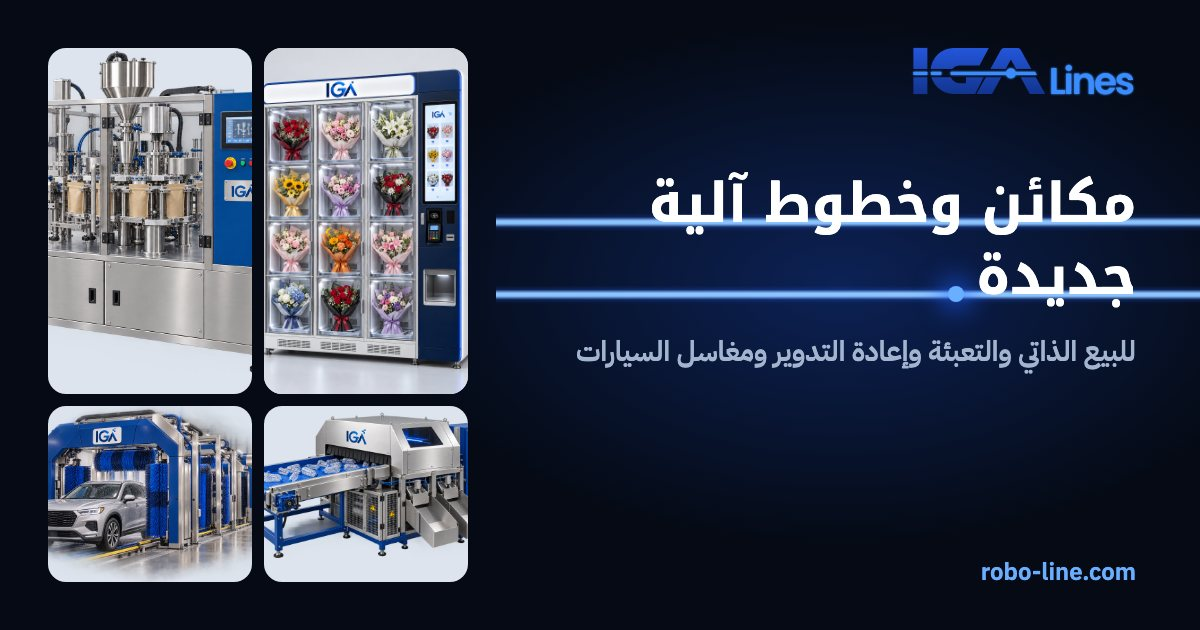
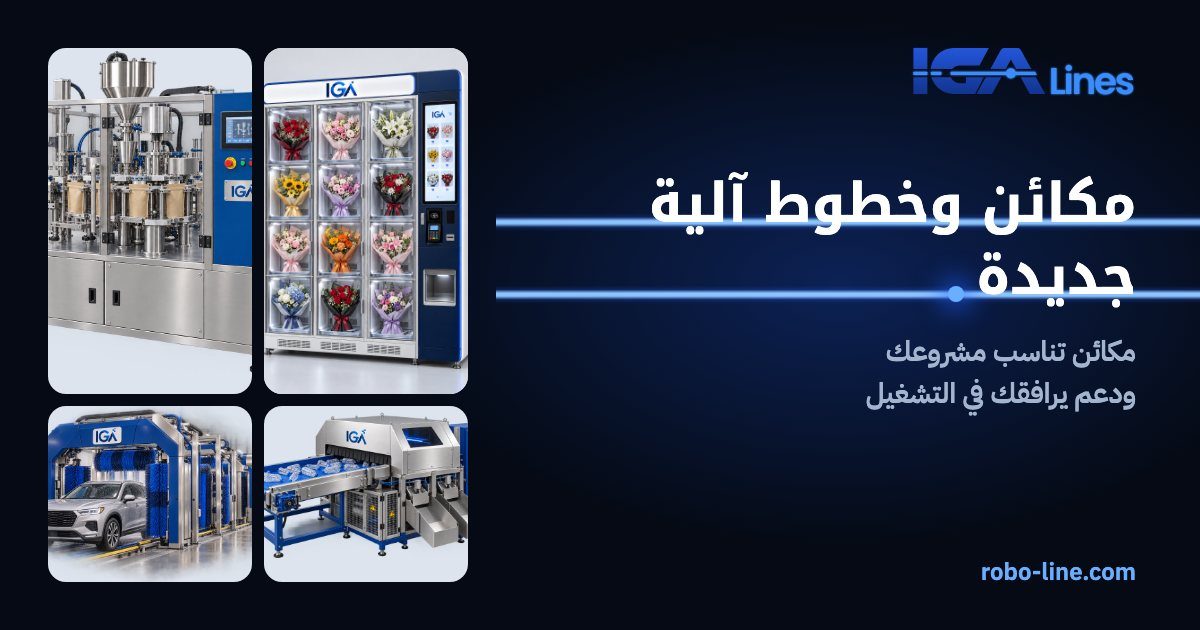
Home hero: new two-line subtitle
مكائن تناسب مشروعك / ودعم يرافقك في التشغيل replaces the category list under the
headline; the home share image uses the same text.

Changed region(s): [[0.4625, 0.5429, 0.9558, 0.6635]]

diff --git a/index.html b/index.html
@@ -51,7 +51,7 @@
 <div class="hero-bg" aria-hidden="true"><picture><source type="image/avif" srcset="/img/hero-line-800.avif 800w, /img/hero-line-1280.avif 1280w, /img/hero-line-1696.avif 1696w" sizes="100vw"><img src="/img/hero-line-1280.webp" srcset="/img/hero-line-800.webp 800w, /img/hero-line-1280.webp 1280w, /img/hero-line-1696.webp 1696w" sizes="100vw" width="1696" height="848" alt="" decoding="async" fetchpriority="high"></picture></div>
 <div class="wrap">
 <p class="eyebrow">IGA Lines · خطوط نمو الذكاء الآلي</p>
-<h1 class="rail-title"><span class="rail-title__main">مكائن وخطوط آلية جديدة<span class="rail-node" aria-hidden="true"></span></span> <span class="rail-title__tail">للبيع الذاتي والتعبئة والتغليف وإعادة التدوير ومغاسل السيارات في السعودية</span></h1>
+<h1 class="rail-title"><span class="rail-title__main">مكائن وخطوط آلية جديدة<span class="rail-node" aria-hidden="true"></span></span> <span class="rail-title__tail">مكائن تناسب مشروعك <br>ودعم يرافقك في التشغيل</span></h1>
 <p class="lede">نساعدك على اختيار المكينة من منتجك وموقعك وحجم تشغيلك، ثم نرتّب معك التوريد والتركيب والتدريب والصيانة بحسب نطاق مشروعك.</p>
 <div class="btn-row">
 <a class="btn btn-primary" href="https://wa.me/966559897783?text=%D9%85%D8%B1%D8%AD%D8%A8%D9%8B%D8%A7%20IGA%20Lines%D8%8C%20%D8%A3%D8%B1%D8%BA%D8%A8%20%D8%A8%D8%B9%D8%B1%D8%B6%20%D8%B3%D8%B9%D8%B1." target="_blank" rel="noopener"><svg viewBox="0 0 24 24" aria-hidden="true" fill="currentColor"><path d="M12.04 2a9.9 9.9 0 0 0-8.45 15.07L2 22l5.06-1.55A9.9 9.9 0 1 0 12.04 2Zm0 18.1a8.2 8.2 0 0 1-4.2-1.15l-.3-.18-3 .92.94-2.92-.2-.31a8.2 8.2 0 1 1 6.76 3.64Zm4.5-6.14c-.25-.12-1.46-.72-1.69-.8-.23-.08-.39-.12-.56.13-.16.25-.64.8-.79.97-.14.16-.29.18-.54.06a6.7 6.7 0 0 1-3.34-2.92c-.25-.43.25-.4.72-1.34.08-.16.04-.3-.02-.43-.06-.12-.56-1.34-.76-1.84-.2-.48-.4-.41-.56-.42h-.48a.92.92 0 0 0-.66.31 2.78 2.78 0 0 0-.87 2.07 4.83 4.83 0 0 0 1.01 2.56 11.05 11.05 0 0 0 4.23 3.74c1.58.68 2.2.74 2.99.62.48-.07 1.46-.6 1.67-1.18.2-.58.2-1.08.14-1.18-.06-.1-.22-.16-.47-.28Z"/></svg>اطلب عرضًا عبر واتساب</a>

diff --git a/_source/build.py b/_source/build.py
@@ -330,8 +330,12 @@ def page(p, body):
     return head(p) + header(p["path"]) + body + footer() + dock(p.get("dock", "مرحبًا IGA Lines، أرغب بعرض سعر.")) + "</body>\n</html>\n"
 
 
+def lines(text):
+    return " <br>".join(e(part) for part in text.split("\n"))
+
+
 def rail_title(main, tail):
-    tail_html = f' <span class="rail-title__tail">{e(tail)}</span>' if tail else ""
+    tail_html = f' <span class="rail-title__tail">{lines(tail)}</span>' if tail else ""
     short = " rail-title--short" if tail and len(tail) <= 24 else ""
     return (f'<h1 class="rail-title{short}"><span class="rail-title__main">{e(main)}'
             f'<span class="rail-node" aria-hidden="true"></span></span>{tail_html}</h1>')
@@ -874,7 +878,7 @@ AddCharset utf-8 .txt .xml .webmanifest
 # ---------------------------------------------------------------- social share images
 
 def og_cards():
-    cards = [("home", home_content.HOME["h1_main"], "للبيع الذاتي والتعبئة وإعادة التدوير ومغاسل السيارات",
+    cards = [("home", home_content.HOME["h1_main"], home_content.HOME["h1_tail"],
               ["iga-flower-vending", "iga-pack-pouch", "iga-recycle-sort", "iga-wash-tunnel"])]
     for c in ORDERED:
         cards.append((c["slug"], c["h1_main"], c["h1_tail"], [p["image"] for p in c["products"][:3]]))
@@ -915,7 +919,7 @@ h1{{position:absolute;right:64px;top:168px;width:640px;margin:0;font-size:{64 if
 .t img{{width:100%;height:100%;object-fit:cover;object-position:50% 30%}}
 .tiles.three .t:first-child{{grid-row:span 2}}
 </style></head><body><div class="glow"></div><div class="logo">{logo("o")}</div>
-<h1><span class="m">{e(main)}<span class="n"></span></span><span class="tail">{e(tail)}</span></h1>
+<h1><span class="m">{e(main)}<span class="n"></span></span><span class="tail">{lines(tail)}</span></h1>
 <div class="site">{HOST}</div>
 <div class="tiles{' three' if len(imgs) == 3 else ''}">{tiles}</div></body></html>"""
             src = Path(tmp) / f"{slug}.html"

diff --git a/_source/src/content/home.py b/_source/src/content/home.py
@@ -6,7 +6,7 @@ HOME = {
                     "والتغليف، ومكائن إعادة التدوير، ومغاسل السيارات الأوتوماتيكية. اطلب عرضًا عبر واتساب."),
     "eyebrow": "IGA Lines · خطوط نمو الذكاء الآلي",
     "h1_main": "مكائن وخطوط آلية جديدة",
-    "h1_tail": "للبيع الذاتي والتعبئة والتغليف وإعادة التدوير ومغاسل السيارات في السعودية",
+    "h1_tail": "مكائن تناسب مشروعك\nودعم يرافقك في التشغيل",  # \n = line break
     "lead": ("نساعدك على اختيار المكينة من منتجك وموقعك وحجم تشغيلك، ثم نرتّب معك التوريد والتركيب "
              "والتدريب والصيانة بحسب نطاق مشروعك."),
 
